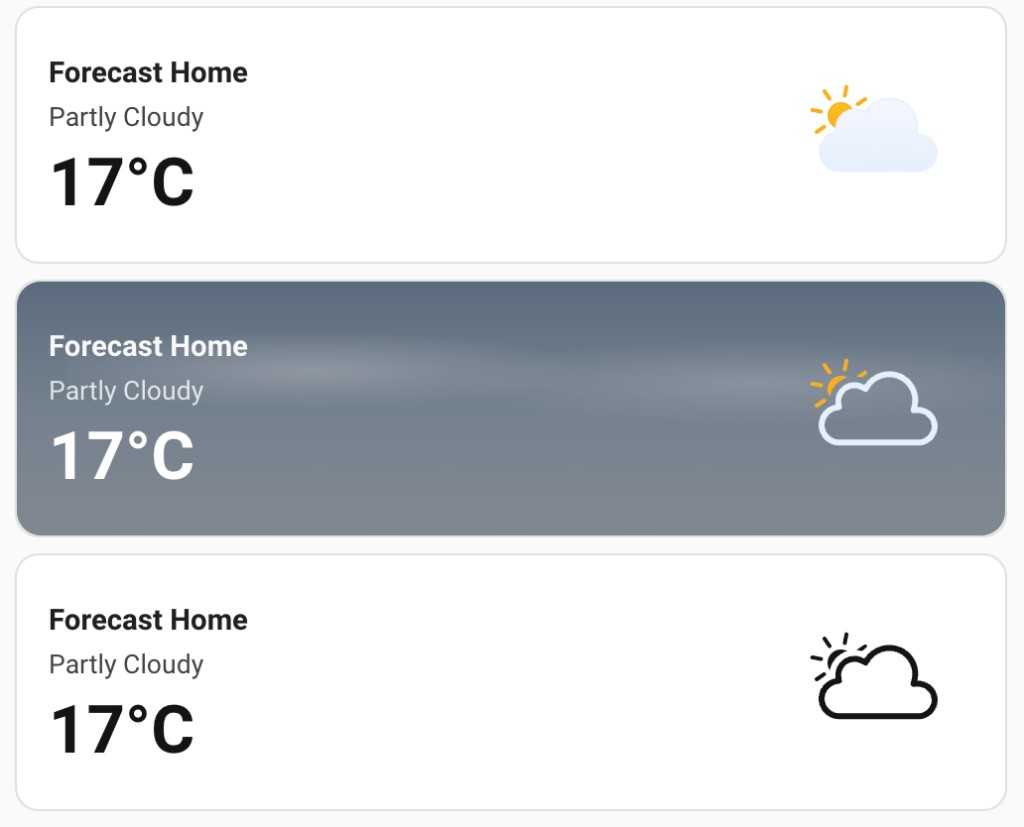
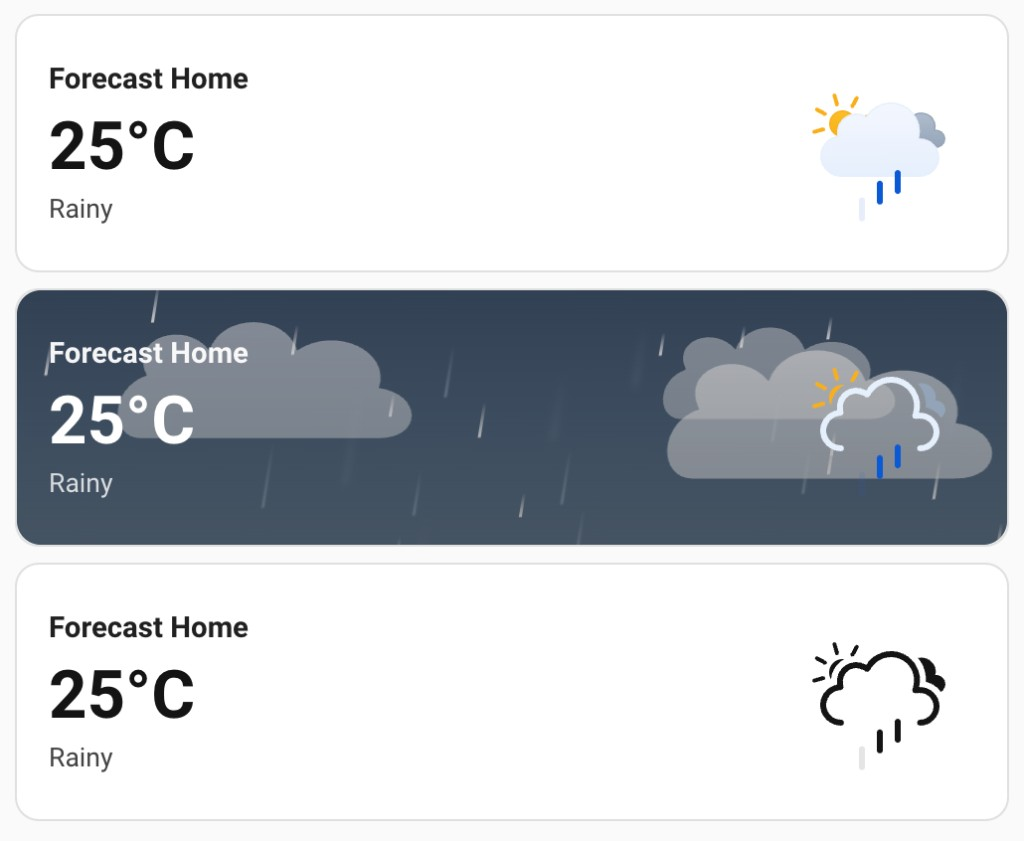
Update README gallery with current card screenshots (#17)

diff --git a/README.md b/README.md
@@ -11,9 +11,9 @@ Home Assistant Lovelace weather card with **[Meteocons](https://meteocons.com/)*
 
 **Custom type:** `custom:vedurkort-weather-card`
 
-| Full | Icon styles | Daily only |
-| --- | --- | --- |
-| ![Full card](images/vedurkort-full.png) | ![Icon styles](images/vedurkort-styles.png) | ![Daily only](images/vedurkort-daily-only.png) |
+| Full | Current | Icon styles | Daily only |
+| --- | --- | --- | --- |
+| ![Full card](images/vedurkort-full.png) | ![Current](images/vedurkort-current.png) | ![Icon styles](images/vedurkort-styles.png) | ![Daily only](images/vedurkort-daily-only.png) |
 
 ## Features
 
@@ -25,7 +25,7 @@ Home Assistant Lovelace weather card with **[Meteocons](https://meteocons.com/)*
 - Feels-like temperature shown beside the main temperature when enabled
 - Subtle section dividers when more than one section is shown
 - CSS tooltips on detail and forecast icons (shadow-DOM friendly)
-- Visual editor grouped as General → Current weather → Daily → Hourly → Optional sensors (section options collapse when disabled)
+- Full visual editor — configure everything in the UI, no YAML required
 - Empty-card hint when no sections are enabled
 - Optional sensor overrides with entity pickers in the UI editor
 - Separate `daily` and `hourly` config blocks
